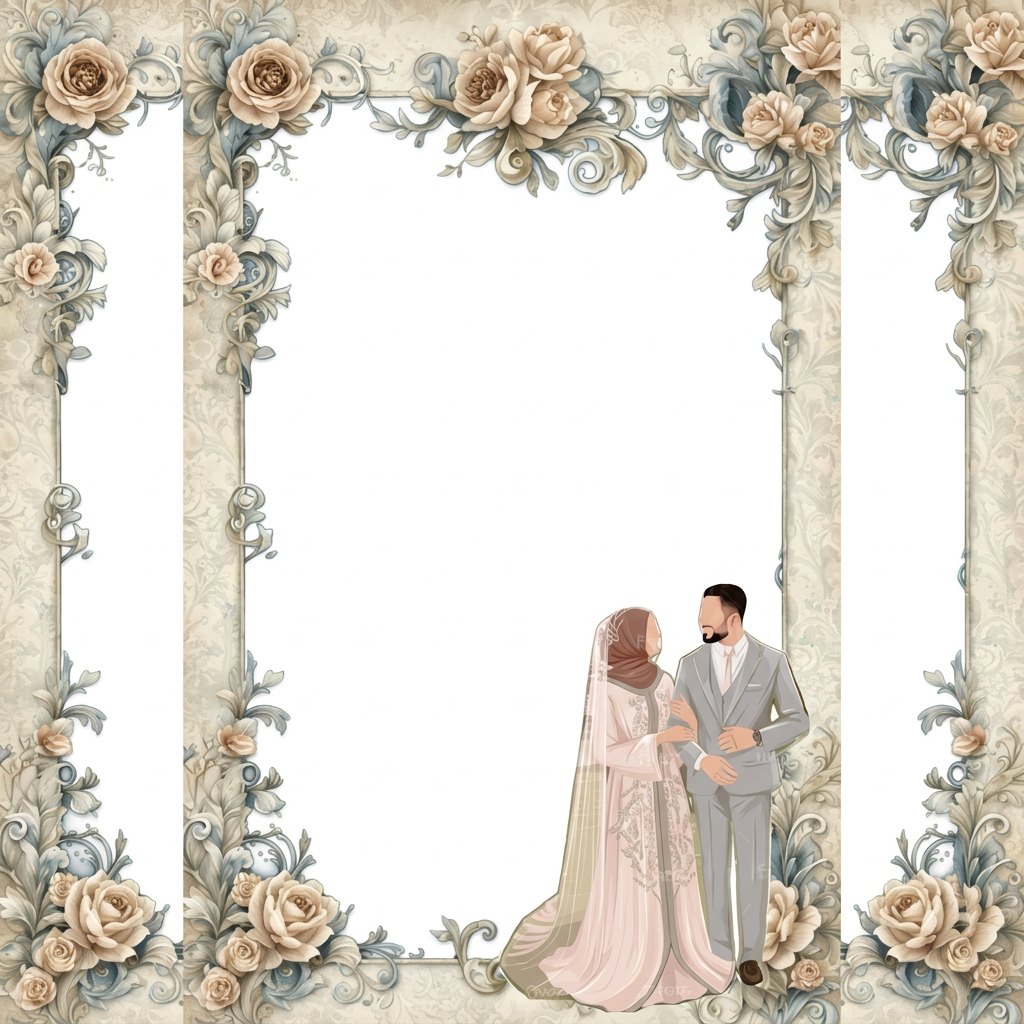
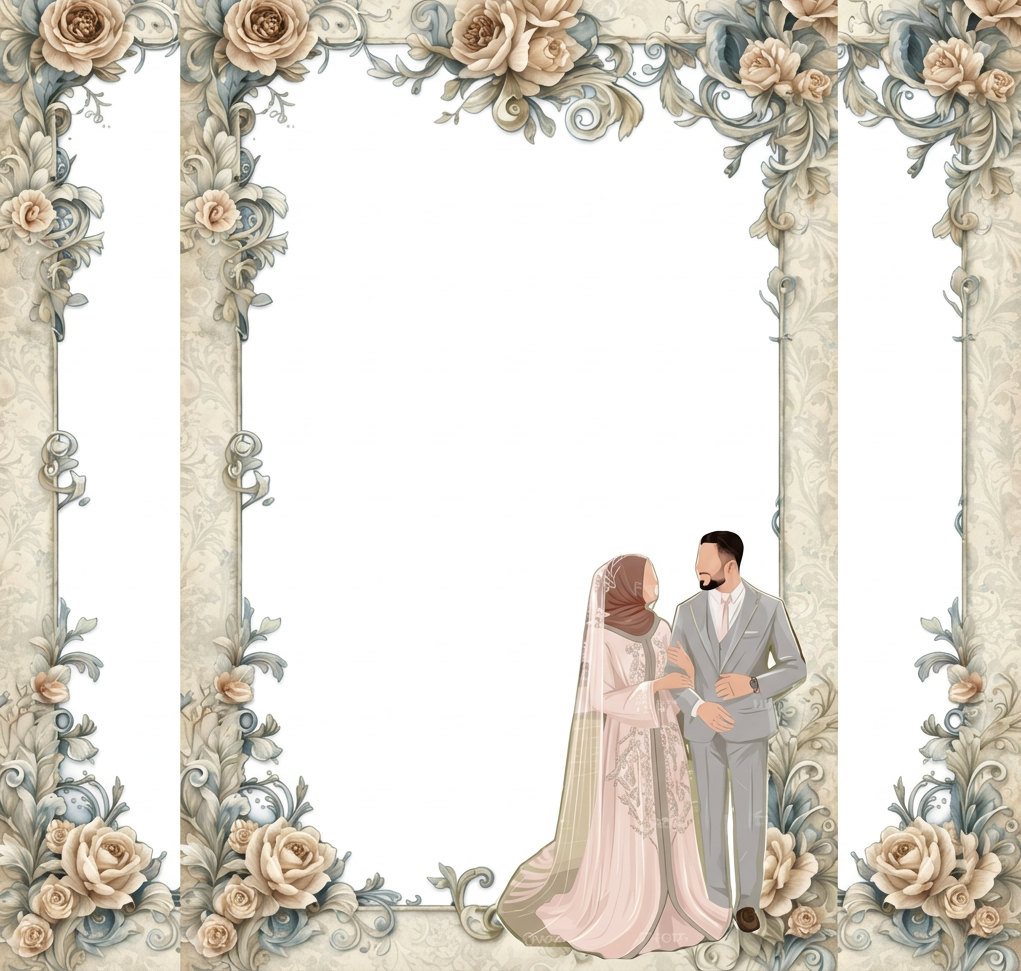
walima card design color theme change green -> purple

diff --git a/src/features/EventPages/WalimaCard.jsx b/src/features/EventPages/WalimaCard.jsx
@@ -37,7 +37,7 @@ function PearlDivider() {
       <defs>
         <linearGradient id="silverLine" x1="0" x2="1">
           <stop offset="0%" stopColor="#7F8C8D" />
-          <stop offset="35%" stopColor="#DDE5E5" />
+          <stop offset="35%" stopColor="#DDD2F1" />
           <stop offset="50%" stopColor="#FFFFFF" />
           <stop offset="70%" stopColor="#C7D0D0" />
           <stop offset="100%" stopColor="#7F8C8D" />
@@ -151,12 +151,13 @@ const WalimaCard = () => {
   }, []);
 
   return (
-    <section className="relative isolate min-h-[100dvh] overflow-hidden bg-[#eef4ea] text-[#31483b]">
+    <section className="relative isolate min-h-[100dvh] overflow-hidden bg-[#F4F0FA] text-[#44365E]">
       {/* base moonlit gradient */}
-      <div className="absolute inset-0 bg-[radial-gradient(circle_at_top,#fdfdf8_0%,#edf5eb_38%,#e5efe3_72%,#dde8db_100%)]" />
+      <div className="absolute inset-0 bg-[radial-gradient(circle_at_top,#FEFCFF_0%,#F5F0FA_36%,#EEE7F7_70%,#E7DEF4_100%)]" />
       <div
-        className="pointer-events-none absolute inset-0 z-[2] opacity-[0.32]"
+        className="pointer-events-none absolute inset-0 z-[2] mix-blend-multiply"
         style={{
+          filter: 'hue-rotate(265deg) saturate(0.85)',
           backgroundImage: `url(${backdropPattern})`,
           backgroundRepeat: 'no-repeat',
           backgroundPosition: 'center top',
@@ -203,8 +204,8 @@ const WalimaCard = () => {
 
       {/* <MoonHalo /> */}
 
-      <div className="absolute inset-x-0 top-0 h-56 bg-[radial-gradient(circle_at_top,rgba(255,255,255,0.55),transparent_72%)]" />
-      <div className="absolute inset-x-0 bottom-0 h-44 bg-[radial-gradient(circle_at_bottom,rgba(198,215,194,0.28),transparent_75%)]" />
+      <div className="absolute inset-x-0 top-0 h-56 bg-[radial-gradient(circle_at_top,rgba(255,255,255,0.22),transparent_72%)]" />
+      <div className="absolute inset-x-0 bottom-0 h-44 bg-[radial-gradient(circle_at_bottom,rgba(171,147,219,0.22),transparent_75%)]" />
 
       <motion.div
         variants={containerVars}
@@ -235,13 +236,13 @@ const WalimaCard = () => {
             {/* outer glow frame */}
             <motion.div
               variants={itemVars}
-              className="pointer-events-none absolute inset-0 -z-10 scale-[1.025] rounded-[2rem] border border-[#c7d8c6]"
+              className="pointer-events-none absolute inset-0 -z-10 scale-[1.025] rounded-[2rem] border border-[#D6CBEA]"
             />
 
             {/* main insert */}
             <motion.div
               variants={itemVars}
-              className="relative overflow-hidden rounded-[2rem] border border-[#d7e5d5] bg-transparent shadow-[0_20px_55px_rgba(76,96,74,0.10)]"
+              className="relative overflow-hidden rounded-[2rem] border border-[#DDD3F0] bg-transparent shadow-[0_20px_55px_rgba(76,96,74,0.10)]"
             >
               {/* floral watermark inside card */}
               <div
@@ -255,9 +256,8 @@ const WalimaCard = () => {
               />
 
               {/* frosted pearl wash */}
-              {/* <div className="pointer-events-none absolute inset-0 bg-[linear-gradient(180deg,rgba(255,255,255,0.55)_0%,rgba(255,255,255,0.2)_40%,rgba(255,255,255,0.08)_100%)]" /> */}
-              <div className="pointer-events-none absolute inset-0 bg-[radial-gradient(circle_at_top,rgba(255,255,255,0.16),transparent_42%),radial-gradient(circle_at_bottom,rgba(255,255,255,0.10),transparent_44%)]" />
-              <div className="pointer-events-none absolute inset-[10px] rounded-[calc(2rem-10px)] border border-[#dce7d7]" />
+              <div className="pointer-events-none absolute inset-0 bg-[radial-gradient(circle_at_top,rgba(255,255,255,0.08),transparent_42%),radial-gradient(circle_at_bottom,rgba(255,255,255,0.04),transparent_44%)]" />
+              <div className="pointer-events-none absolute inset-[10px] rounded-[calc(2rem-10px)] border border-[#E4DCF4]" />
 
               {/* top crest */}
               <motion.div variants={itemVars} className="absolute left-1/2 top-4 z-20 -translate-x-1/2">
@@ -274,7 +274,7 @@ const WalimaCard = () => {
                 className="pointer-events-none absolute inset-10 rounded-[2rem]"
                 style={{
                   background:
-                    "radial-gradient(circle, rgba(255,251,245,0.42) 0%, rgba(255,251,245,0.18) 55%, transparent 90%)",
+                    "radial-gradient(circle, rgba(255,252,255,0.44) 0%, rgba(244,238,251,0.18) 55%, transparent 90%)",
                 }}
               />
 
@@ -289,13 +289,13 @@ const WalimaCard = () => {
 
                     {inviteAnchor.isPersonalized ? (
                         <>
-                        <p className="font-ui text-[11px] sm:text-[12px] uppercase tracking-[0.34em] text-[#233326]/92 drop-shadow-[0_1px_10px_rgba(0,0,0,0.18)]">
+                        <p className="font-ui text-[11px] sm:text-[12px] uppercase tracking-[0.34em] text-[#49356E]/92 drop-shadow-[0_1px_10px_rgba(0,0,0,0.18)]">
                             {inviteAnchor.lead}
                         </p>
 
                         <div className="mt-2.5">
                             <p className="mx-auto max-w-[18ch] leading-[1]">
-                            <span className="font-display text-[clamp(1.95rem,4.8vw,3.1rem)] italic text-[#233326] drop-shadow-[0_2px_18px_rgba(255,255,255,0.12)]">
+                            <span className="font-display text-[clamp(1.95rem,4.8vw,3.1rem)] italic text-[#49356E] drop-shadow-[0_2px_18px_rgba(255,255,255,0.12)]">
                                 {guestName}
                             </span>
                             <span className="mt-1.5 block font-ui text-[11px] sm:text-[12px] uppercase tracking-[0.34em] text-[#DCE4E4]/90">
@@ -305,27 +305,27 @@ const WalimaCard = () => {
                         </div>
                         </>
                     ) : (
-                        <p className="mx-auto max-w-[34rem] font-ui text-[11px] sm:text-[13px] uppercase tracking-[0.3em] leading-[1.9] text-[#233326]/94 drop-shadow-[0_1px_10px_rgba(0,0,0,0.18)]">
+                        <p className="mx-auto max-w-[34rem] font-ui text-[11px] sm:text-[13px] uppercase tracking-[0.3em] leading-[1.9] text-[#49356E]/94 drop-shadow-[0_1px_10px_rgba(0,0,0,0.18)]">
                         MR. &amp; MRS. TAHIR REQUEST THE PLEASURE OF YOUR COMPANY
                         </p>
                     )}
                 </motion.div>
 
                 <motion.div variants={itemVars} className="mt-5 text-center">
-                    <p className="font-display text-[1.15rem] italic tracking-[0.08em] text-[#486252] drop-shadow-[0_2px_14px_rgba(255,255,255,0.08)] sm:text-[1.35rem]">
+                    <p className="font-display text-[1.15rem] italic tracking-[0.08em] text-[#69518F] drop-shadow-[0_2px_14px_rgba(255,255,255,0.08)] sm:text-[1.35rem]">
                         To celebrate the Walima of their Beloved Son
                     </p>
 
                     <div className="mt-5">
-                        <h1 className="font-display text-[clamp(2.1rem,5.2vw,4.3rem)] font-semibold uppercase leading-[0.94] tracking-[-0.03em] text-[#1d2b21] drop-shadow-[0_2px_6px_rgba(255,255,255,0.35)]">
+                        <h1 className="font-display text-[clamp(2.1rem,5.2vw,4.3rem)] font-semibold uppercase leading-[0.94] tracking-[-0.03em] text-[#37234F] drop-shadow-[0_2px_6px_rgba(255,255,255,0.35)]">
                         Ramooz Tahir
                         </h1>
 
-                        <p className="my-2 font-cursive text-[1.75rem] text-[#536a59] sm:my-3 sm:text-[2rem]">
+                        <p className="my-2 font-cursive text-[1.75rem] text-[#7A669F] sm:my-3 sm:text-[2rem]">
                         and
                         </p>
 
-                        <h1 className="font-display text-[clamp(2.1rem,5.2vw,4.3rem)] font-semibold uppercase leading-[0.94] tracking-[-0.03em] text-[#1d2b21] drop-shadow-[0_2px_6px_rgba(255,255,255,0.35)]">
+                        <h1 className="font-display text-[clamp(2.1rem,5.2vw,4.3rem)] font-semibold uppercase leading-[0.94] tracking-[-0.03em] text-[#37234F] drop-shadow-[0_2px_6px_rgba(255,255,255,0.35)]">
                         Maryam Imran
                         </h1>
                     </div>
@@ -334,12 +334,12 @@ const WalimaCard = () => {
                 {/* distinctly different event plaque */}
                 <motion.div variants={itemVars} className="mt-8">
                   <div className="text-center">
-                    <p className="font-ui text-[10px] sm:text-[11px] uppercase tracking-[0.34em] text-[#536a59]/84">
+                    <p className="font-ui text-[10px] sm:text-[11px] uppercase tracking-[0.34em] text-[#7A669F]/84">
                       An Evening in Lahore
                     </p>
                   </div>
 
-                  <div className="relative mt-4 overflow-hidden rounded-[1.9rem] border border-[#d7e5d5] bg-[rgba(255,255,250,0.18)] backdrop-blur-sm px-5 py-6 shadow-[0_12px_32px_rgba(81,103,78,0.10)] backdrop-blur-2xl sm:px-6 sm:py-6">
+                  <div className="relative mt-4 overflow-hidden rounded-[1.9rem] border border-[#d7e5d5] bg-[rgba(250,247,255,0.24)] backdrop-blur-sm px-5 py-6 shadow-[0_12px_32px_rgba(74,58,112,0.10)] sm:px-6 sm:py-6">
                     {/* engraved silver wash */}
                     <div className="pointer-events-none absolute inset-0 bg-[linear-gradient(180deg,rgba(255,255,255,0.17)_0%,rgba(255,255,255,0.07)_24%,rgba(255,255,255,0.025)_54%,rgba(255,255,255,0.09)_82%,rgba(255,255,255,0.15)_100%)]" />
 
@@ -361,66 +361,66 @@ const WalimaCard = () => {
                     <div className="pointer-events-none absolute inset-0 bg-[radial-gradient(circle_at_top,rgba(255,255,255,0.16),transparent_42%),radial-gradient(circle_at_bottom,rgba(255,255,255,0.08),transparent_46%)]" />
 
                     <div className="relative z-10">
-                      <div className="mb-5 flex items-center justify-center gap-3 text-[#536a59]">
-                        <div className="h-px w-10 bg-gradient-to-r from-transparent to-[#DDE5E5]/65" />
-                        <p className="font-ui text-[11px] font-semibold uppercase tracking-[0.3em] text-[#233326]/92">
+                      <div className="mb-5 flex items-center justify-center gap-3 text-[#7A669F]">
+                        <div className="h-px w-10 bg-gradient-to-r from-transparent to-[#DDD2F1]/65" />
+                        <p className="font-ui text-[11px] font-semibold uppercase tracking-[0.3em] text-[#49356E]/92">
                           Reception Details
                         </p>
-                        <div className="h-px w-10 bg-gradient-to-l from-transparent to-[#DDE5E5]/65" />
+                        <div className="h-px w-10 bg-gradient-to-l from-transparent to-[#DDD2F1]/65" />
                       </div>
 
                       <div className="grid gap-5 md:grid-cols-[1fr_1.25fr_1fr] md:items-center">
                         {/* left meta */}
                         <div className="text-center md:text-left">
-                          <p className="font-ui text-[10px] uppercase tracking-[0.32em] text-[#80907F]">
+                          <p className="font-ui text-[10px] uppercase tracking-[0.32em] text-[#9888B8]">
                             Date
                           </p>
-                          <p className="mt-2 font-display text-[1.45rem] leading-none text-[#2E4738]">
+                          <p className="mt-2 font-display text-[1.45rem] leading-none text-[#56437C]">
                             Monday
                           </p>
-                          <p className="mt-2 font-ui text-[12px] uppercase tracking-[0.22em] text-[#536a59]/88">
+                          <p className="mt-2 font-ui text-[12px] uppercase tracking-[0.22em] text-[#7A669F]/88">
                             03 August 2026
                           </p>
                         </div>
 
                         {/* center venue hero */}
                         <div className="text-center md:text-right">
-                          <p className="font-ui text-[10px] uppercase tracking-[0.32em] text-[#80907F]">
+                          <p className="font-ui text-[10px] uppercase tracking-[0.32em] text-[#9888B8]">
                             Time
                           </p>
-                          <p className="mt-2 font-display text-[1.45rem] leading-none text-[#2E4738]">
+                          <p className="mt-2 font-display text-[1.45rem] leading-none text-[#56437C]">
                             7:00 PM
                           </p>
-                          <p className="mt-2 font-ui text-[12px] uppercase tracking-[0.22em] text-[#536a59]/88">
+                          <p className="mt-2 font-ui text-[12px] uppercase tracking-[0.22em] text-[#7A669F]/88">
                             Onwards
                           </p>
                         </div>
 
                         {/* right meta */}
                         <div className="relative text-center px-2">
-                          <div className="absolute left-0 top-1/2 hidden h-px w-8 -translate-y-1/2 bg-gradient-to-r from-transparent to-[#DDE5E5]/45 md:block" />
-                          <div className="absolute right-0 top-1/2 hidden h-px w-8 -translate-y-1/2 bg-gradient-to-l from-transparent to-[#DDE5E5]/45 md:block" />
+                          <div className="absolute left-0 top-1/2 hidden h-px w-8 -translate-y-1/2 bg-gradient-to-r from-transparent to-[#DDD2F1]/45 md:block" />
+                          <div className="absolute right-0 top-1/2 hidden h-px w-8 -translate-y-1/2 bg-gradient-to-l from-transparent to-[#DDD2F1]/45 md:block" />
 
-                          <p className="font-ui text-[10px] uppercase tracking-[0.32em] text-[#80907F]">
+                          <p className="font-ui text-[10px] uppercase tracking-[0.32em] text-[#9888B8]">
                             Venue
                           </p>
-                          <p className="mt-2 font-display text-[1.65rem] sm:text-[1.85rem] leading-tight text-[#2E4738] drop-shadow-[0_2px_14px_rgba(255,255,255,0.08)]">
+                          <p className="mt-2 font-display text-[1.65rem] sm:text-[1.85rem] leading-tight text-[#56437C] drop-shadow-[0_2px_14px_rgba(255,255,255,0.08)]">
                             Marabelle
                           </p>
-                          <p className="mt-2 font-ui text-[12px] uppercase tracking-[0.22em] text-[#536a59]/82">
+                          <p className="mt-2 font-ui text-[12px] uppercase tracking-[0.22em] text-[#7A669F]/82">
                             Reception &amp; Dinner
                           </p>
                         </div>
                       </div>
 
-                      <div className="mt-5 flex items-center justify-center gap-3 text-[#536a59]">
-                        <div className="h-px w-8 bg-gradient-to-r from-transparent to-[#DDE5E5]/45" />
+                      <div className="mt-5 flex items-center justify-center gap-3 text-[#7A669F]">
+                        <div className="h-px w-8 bg-gradient-to-r from-transparent to-[#DDD2F1]/45" />
                         <div className="h-[6px] w-[6px] rounded-full bg-[#F7F5F0]/80" />
-                        <div className="h-px w-8 bg-gradient-to-l from-transparent to-[#DDE5E5]/45" />
+                        <div className="h-px w-8 bg-gradient-to-l from-transparent to-[#DDD2F1]/45" />
                       </div>
 
                       <div className="mt-4 text-center">
-                        <p className="font-ui text-[13px] leading-relaxed text-[#233326]/84">
+                        <p className="font-ui text-[13px] leading-relaxed text-[#49356E]/84">
                           Lahore Garrison Golf & Country Club, Saddar Town, Lahore
                         </p>
                       </div>
@@ -432,7 +432,7 @@ const WalimaCard = () => {
                           rel="noreferrer"
                           whileHover={{ y: -2, scale: 1.015 }}
                           whileTap={{ scale: 0.985 }}
-                          className="group relative inline-flex w-full max-w-[240px] items-center justify-center overflow-hidden rounded-full border border-[#b9ccb8] bg-[#eef5eb] px-6 py-3.5 text-center font-ui text-[10px] font-extrabold uppercase tracking-[0.3em] text-[#26352b] shadow-[0_8px_24px_rgba(81,103,78,0.10)]"
+                          className="group relative inline-flex w-full max-w-[240px] items-center justify-center overflow-hidden rounded-full border border-[#D2C7E7] bg-[#F8F5FC] px-6 py-3.5 text-center font-ui text-[10px] font-extrabold uppercase tracking-[0.3em] text-[#49356E] shadow-[0_8px_24px_rgba(78,61,118,0.10)]"
                         >
                           <span className="absolute inset-0 bg-[linear-gradient(120deg,transparent_0%,rgba(255,255,255,0.40)_20%,transparent_38%)] opacity-80 transition-transform duration-700 group-hover:translate-x-full" />
                           <span className="relative">Link to Location</span>
@@ -464,7 +464,7 @@ const WalimaCard = () => {
             }}
           >
             {/* veil body */}
-            <div className="absolute inset-0 bg-[linear-gradient(180deg,rgba(255,255,250,0.95)_0%,rgba(242,248,239,0.88)_40%,rgba(233,242,231,0.82)_100%)] backdrop-blur-md" />
+            <div className="absolute inset-0 bg-[linear-gradient(180deg,rgba(255,253,255,0.96)_0%,rgba(246,240,252,0.90)_42%,rgba(236,229,248,0.84)_100%)] backdrop-blur-md" />
 
             {/* floral veil texture */}
             <div
@@ -500,18 +500,18 @@ const WalimaCard = () => {
                 <div className="pointer-events-none absolute inset-0 bg-[linear-gradient(135deg,rgba(255,255,255,0.22),transparent_30%,transparent_70%,rgba(255,255,255,0.08))]" />
                 <div className="pointer-events-none absolute inset-[1px] rounded-[calc(1.75rem-1px)] border border-white/12" />
 
-                <div className="relative overflow-hidden rounded-[1.75rem] border border-[#d6e2d4] bg-[#fffefb] px-8 py-6 shadow-[0_14px_36px_rgba(81,103,78,0.12)]">
-                  <p className="font-cursive text-[2.1rem] leading-none text-[#45614d] sm:text-[2.45rem]">
+                <div className="relative overflow-hidden rounded-[1.75rem] border border-[#DDD4EE] bg-[#FCFAFF] px-8 py-6 shadow-[0_14px_36px_rgba(72,56,109,0.12)]">
+                  <p className="font-cursive text-[2.1rem] leading-none text-[#62458A] sm:text-[2.45rem]">
                     Lift the Veil
                   </p>
 
                   <div className="mx-auto mt-3 flex items-center justify-center gap-3">
-                    <div className="h-px w-10 bg-gradient-to-r from-transparent to-[#90A6A6]/70" />
+                    <div className="h-px w-10 bg-gradient-to-r from-transparent to-[#B4A3D6]/70" />
                     <div className="h-[7px] w-[7px] rounded-full bg-[#F7F5F0] shadow-[0_0_14px_rgba(255,255,255,0.40)]" />
-                    <div className="h-px w-10 bg-gradient-to-l from-transparent to-[#90A6A6]/70" />
+                    <div className="h-px w-10 bg-gradient-to-l from-transparent to-[#B4A3D6]/70" />
                   </div>
 
-                  <p className="mt-4 font-ui text-[10px] font-semibold uppercase tracking-[0.46em] text-[#274949]/72">
+                  <p className="mt-4 font-ui text-[10px] font-semibold uppercase tracking-[0.46em] text-[#5A4380]/72">
                     Tap to Reveal
                   </p>
                 </div>